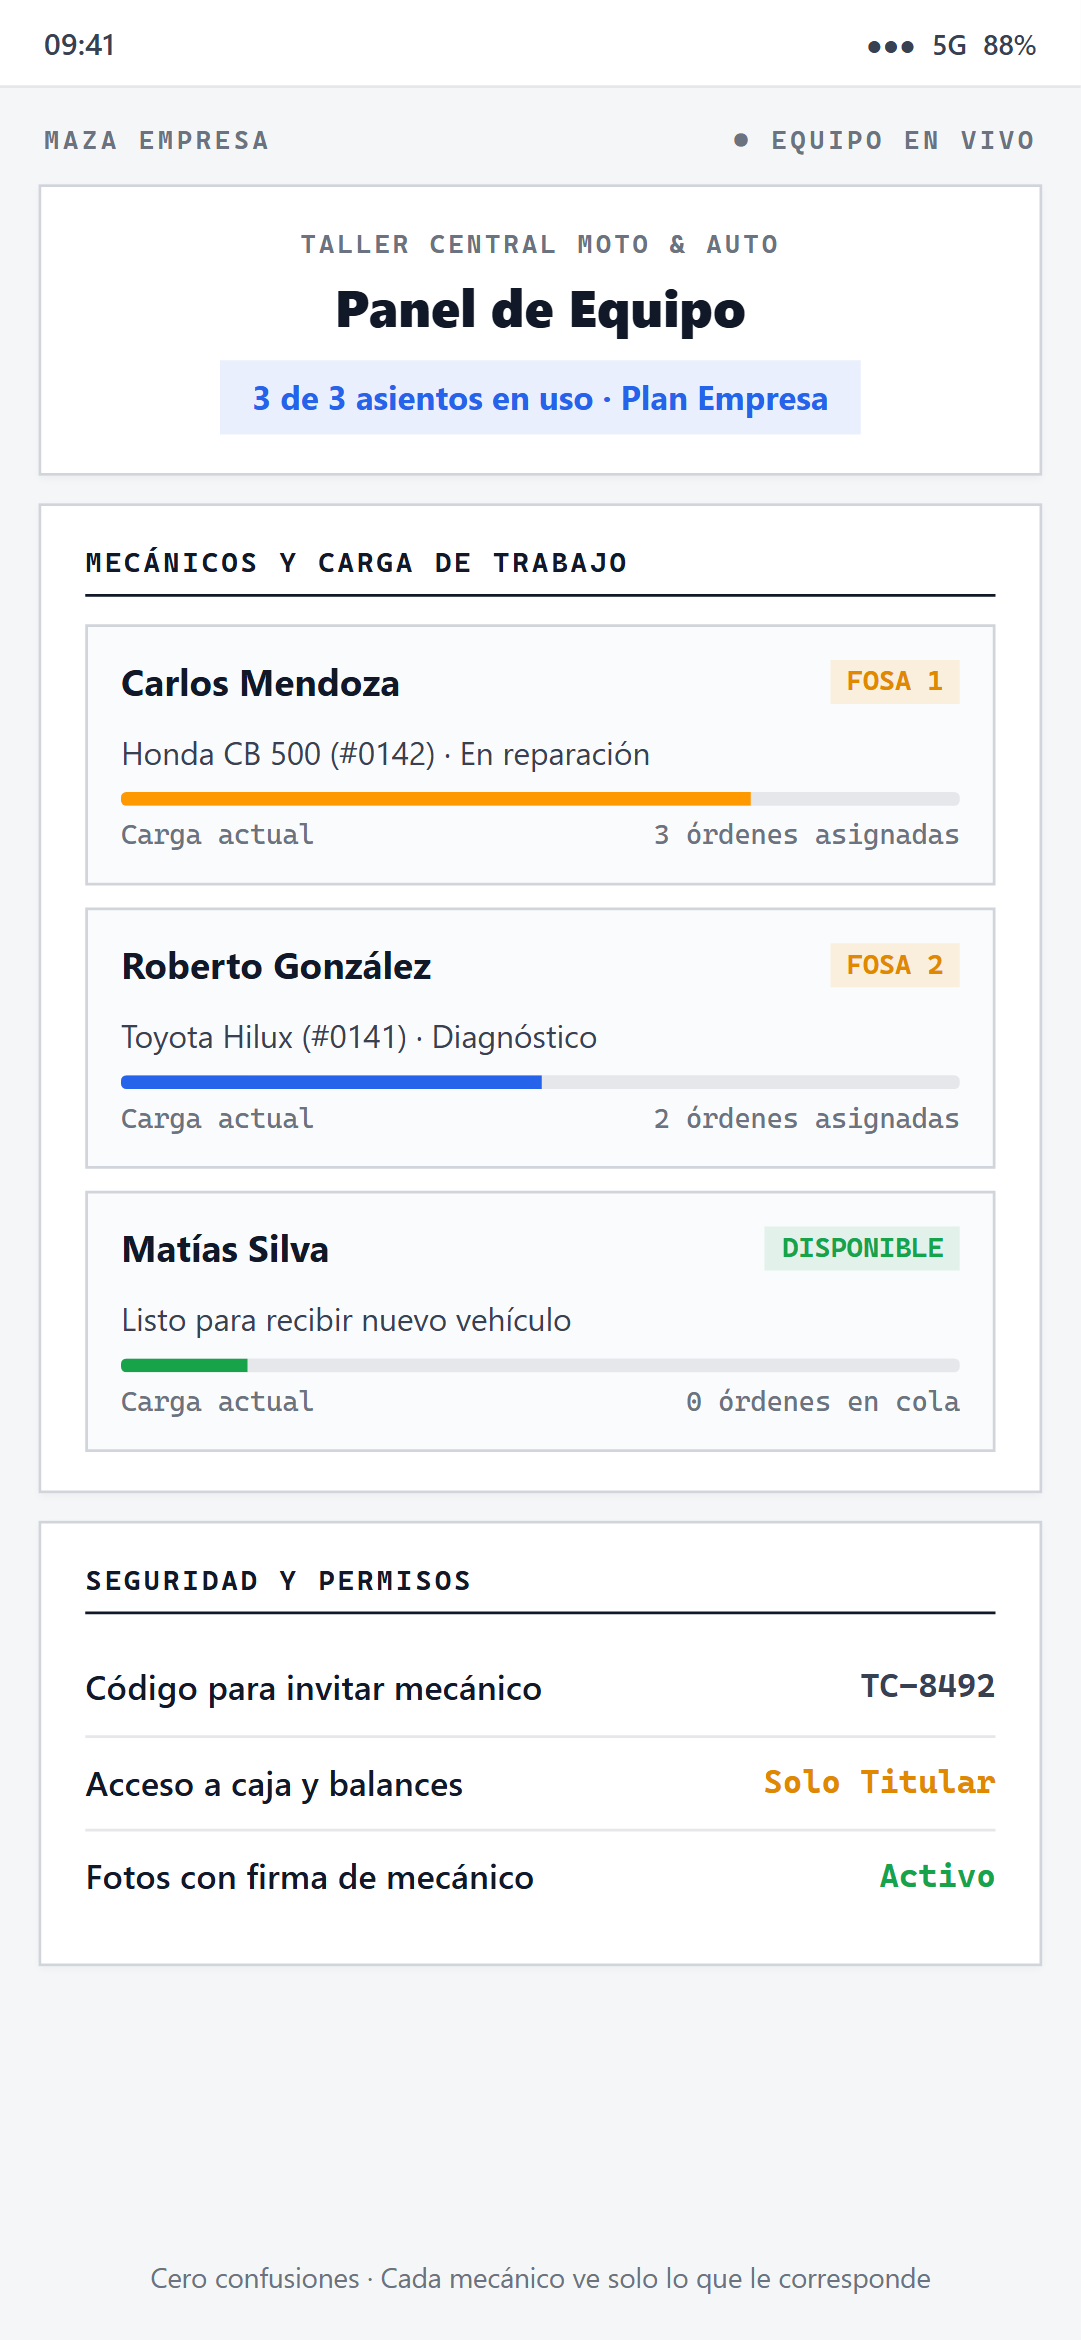
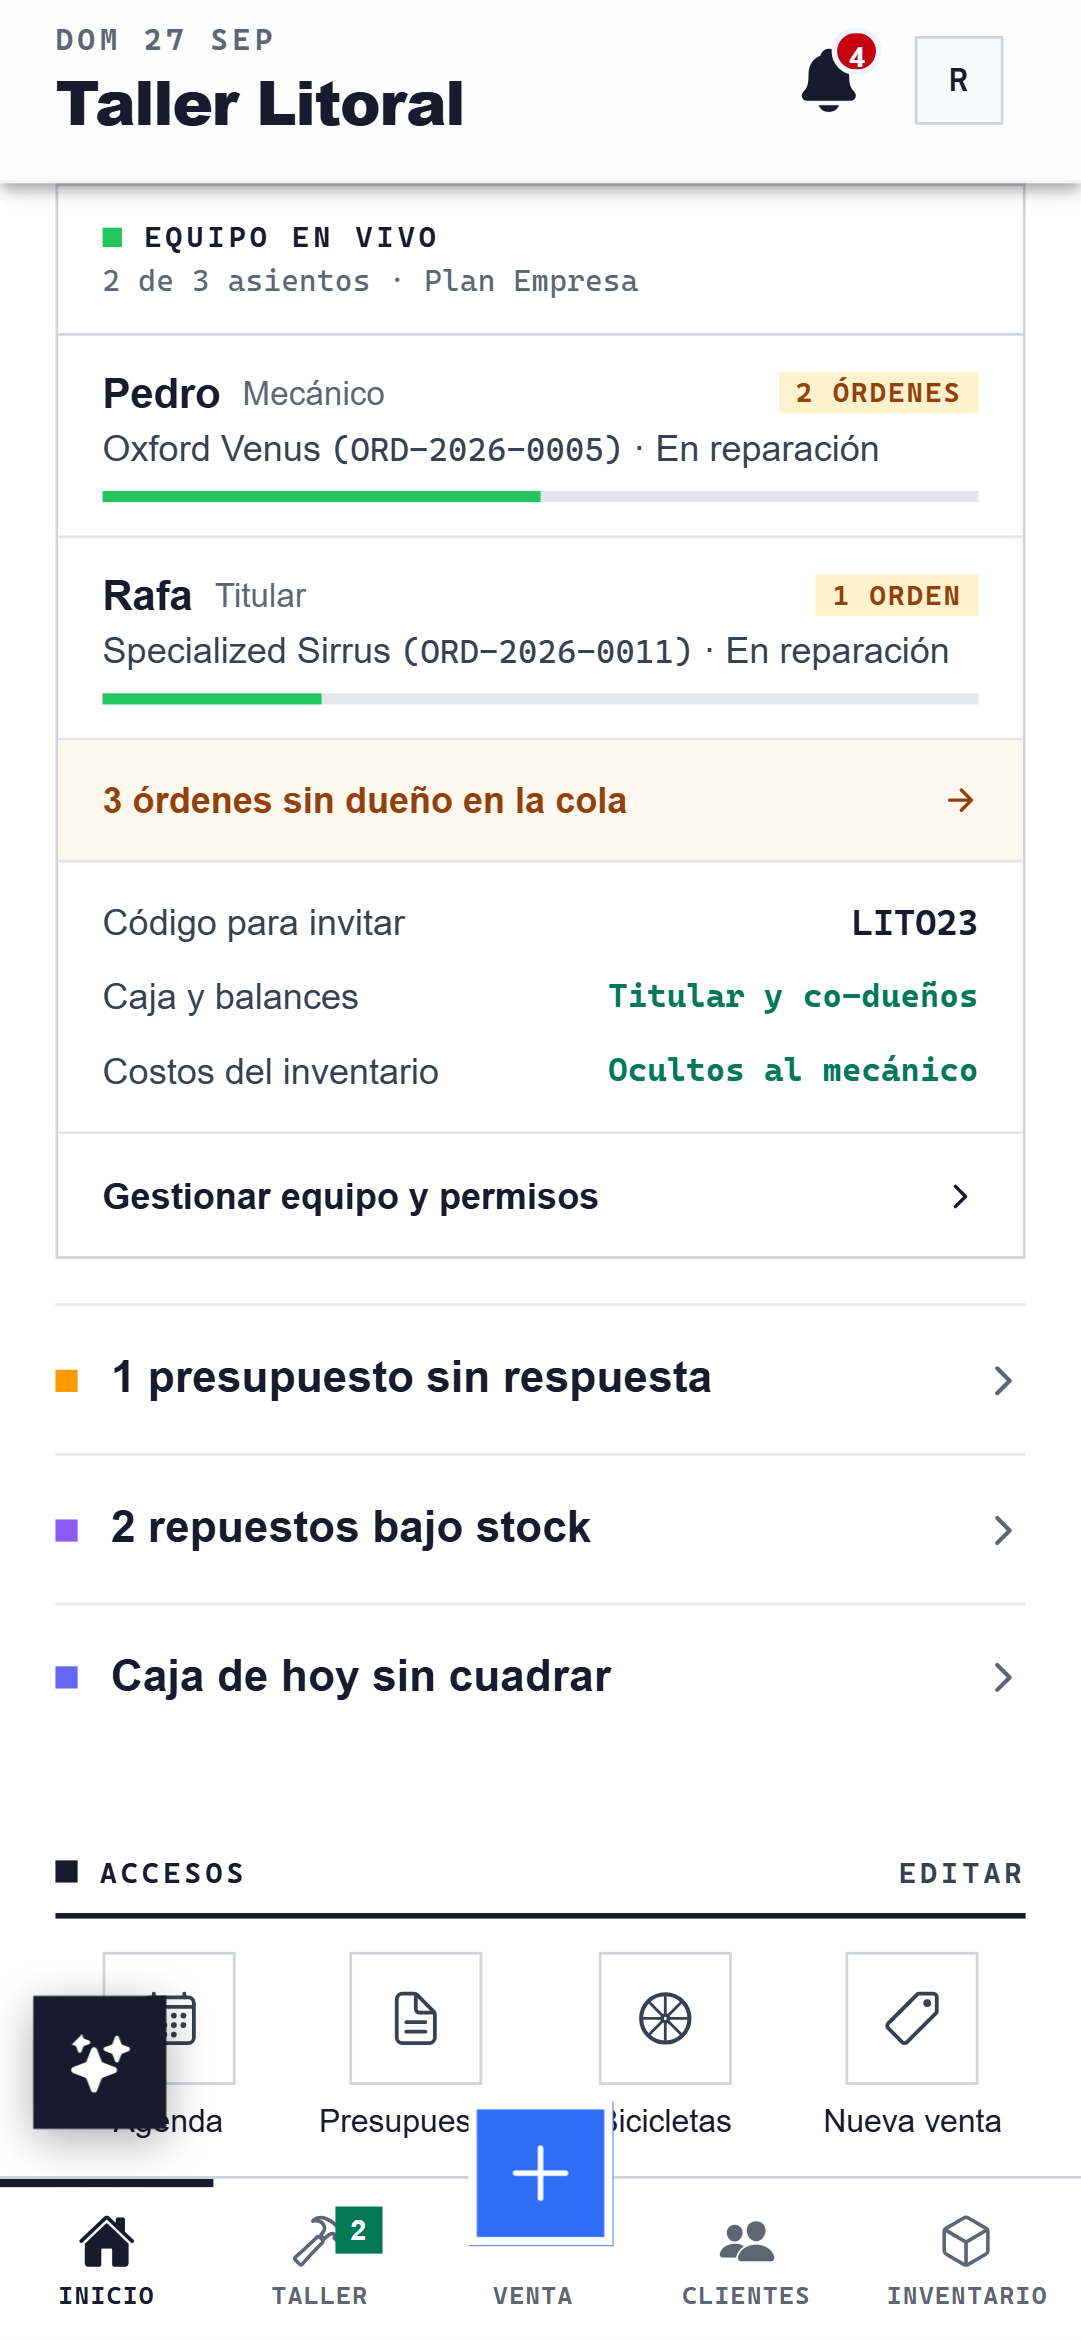
feat(capturas): seguimiento, presupuesto y equipo son capturas reales de la app
Claude-Session: https://claude.ai/code/session_0186m3uGWsVNUfjsGrKEE1S9

diff --git a/lib/site.ts b/lib/site.ts
@@ -146,7 +146,7 @@ export const FEATURES: Feature[] = [
   {
     title: "Presupuestos con aprobación online",
     description:
-      "El cliente aprueba o rechaza el presupuesto desde el link, sin tener que pasar por el taller ni llamar por teléfono.",
+      "El cliente aprueba desde el link con su nombre, destilda lo que no quiere o pide conversar el precio. Sin pasar por el taller ni llamar por teléfono.",
     icon: "presupuesto",
     tag: "Cierra ventas más rápido",
     shotAlt: "Presupuesto esperando aprobación del cliente desde el celular",
@@ -155,9 +155,9 @@ export const FEATURES: Feature[] = [
   {
     title: "Equipo con dueño y mecánicos",
     description:
-      "En el plan Empresa cada mecánico tiene su propio acceso y la carga de trabajo se reparte entre todo el equipo.",
+      "Cada uno con su acceso, y en el inicio ves quién tiene qué entre manos y qué quedó sin dueño. Taller Full suma un segundo acceso; Empresa, el equipo completo con asignación por mecánico.",
     icon: "equipo",
-    tag: "Plan Empresa",
+    tag: "Taller Full y Empresa",
     shotAlt: "Panel de equipo con mecánicos y carga de trabajo repartida",
     spotlight: true,
   },
